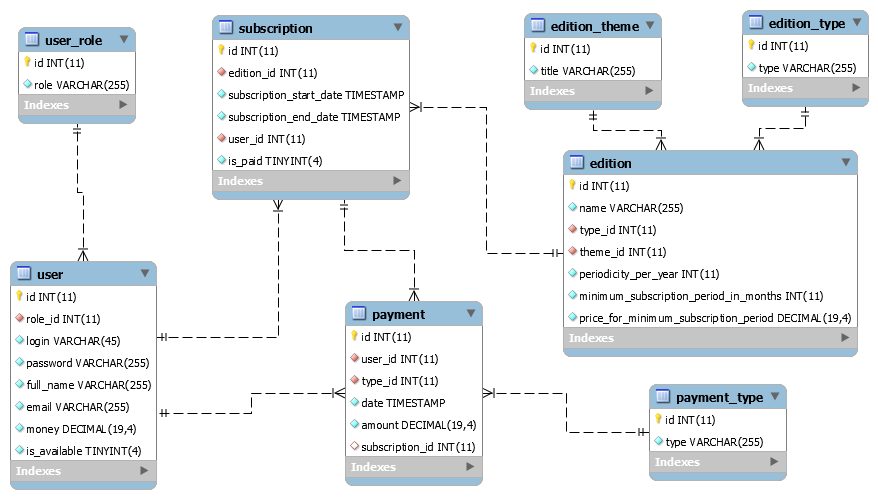
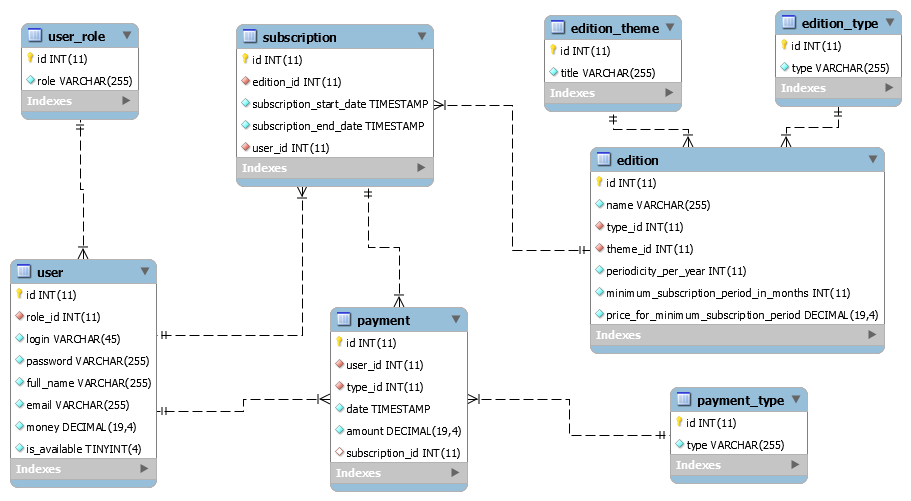
Remove isPaid field from Subscription entity

diff --git a/src/main/java/by/kiselevich/periodicals/entity/Subscription.java b/src/main/java/by/kiselevich/periodicals/entity/Subscription.java
@@ -13,19 +13,17 @@ public class Subscription implements Serializable {
     private Timestamp subscriptionStartDate;
     private Timestamp subscriptionEndDate;
     private User user;
-    private boolean paid;
 
     public Subscription() {
 
     }
 
-    public Subscription(int id, Edition edition, Timestamp subscriptionStartDate, Timestamp subscriptionEndDate, User user, boolean paid) {
+    public Subscription(int id, Edition edition, Timestamp subscriptionStartDate, Timestamp subscriptionEndDate, User user) {
         this.id = id;
         this.edition = edition;
         this.subscriptionStartDate = subscriptionStartDate;
         this.subscriptionEndDate = subscriptionEndDate;
         this.user = user;
-        this.paid = paid;
     }
 
     public static class SubscriptionBuilder {
@@ -34,7 +32,6 @@ public class Subscription implements Serializable {
         private Timestamp subscriptionStartDate;
         private Timestamp subscriptionEndDate;
         private User user;
-        private boolean paid;
 
         public SubscriptionBuilder id(int id) {
             this.id = id;
@@ -61,13 +58,8 @@ public class Subscription implements Serializable {
             return this;
         }
 
-        public SubscriptionBuilder paid(boolean paid) {
-            this.paid = paid;
-            return this;
-        }
-
         public Subscription build() {
-            return new Subscription(id, edition, subscriptionStartDate, subscriptionEndDate, user, paid);
+            return new Subscription(id, edition, subscriptionStartDate, subscriptionEndDate, user);
         }
     }
 
@@ -111,14 +103,6 @@ public class Subscription implements Serializable {
         this.user = user;
     }
 
-    public boolean isPaid() {
-        return paid;
-    }
-
-    public void setPaid(boolean paid) {
-        this.paid = paid;
-    }
-
     @Override
     public boolean equals(Object o) {
         if (this == o) return true;
@@ -127,7 +111,6 @@ public class Subscription implements Serializable {
         Subscription that = (Subscription) o;
 
         if (id != that.id) return false;
-        if (paid != that.paid) return false;
         if (!Objects.equals(edition, that.edition)) return false;
         if (!Objects.equals(subscriptionStartDate, that.subscriptionStartDate))
             return false;
@@ -143,7 +126,6 @@ public class Subscription implements Serializable {
         result = 31 * result + (subscriptionStartDate != null ? subscriptionStartDate.hashCode() : 0);
         result = 31 * result + (subscriptionEndDate != null ? subscriptionEndDate.hashCode() : 0);
         result = 31 * result + (user != null ? user.hashCode() : 0);
-        result = 31 * result + (paid ? 1 : 0);
         return result;
     }
 
@@ -155,7 +137,6 @@ public class Subscription implements Serializable {
                 ", subscriptionStartDate=" + subscriptionStartDate +
                 ", subscriptionEndDate=" + subscriptionEndDate +
                 ", user=" + user +
-                ", isPaid=" + paid +
                 '}';
     }
 }

diff --git a/src/main/java/by/kiselevich/periodicals/repository/subscription/SubscriptionRepositoryImpl.java b/src/main/java/by/kiselevich/periodicals/repository/subscription/SubscriptionRepositoryImpl.java
@@ -10,7 +10,7 @@ import java.util.List;
 
 public class SubscriptionRepositoryImpl implements SubscriptionRepository {
 
-    private static final String ADD_SUBSCRIPTION = "insert into subscription(edition_id, subscription_start_date, subscription_end_date, user_id, is_paid) values (?, ?, ?, ?, ?)";
+    private static final String ADD_SUBSCRIPTION = "insert into subscription(edition_id, subscription_start_date, subscription_end_date, user_id) values (?, ?, ?, ?)";
 
     private static final String SUBSCRIPTION_NOT_ADDED_MESSAGE = "Subscription has not been added";
 
@@ -29,7 +29,6 @@ public class SubscriptionRepositoryImpl implements SubscriptionRepository {
             statement.setTimestamp(2, subscription.getSubscriptionStartDate());
             statement.setTimestamp(3, subscription.getSubscriptionEndDate());
             statement.setInt(4, subscription.getUser().getId());
-            statement.setBoolean(5, subscription.isPaid());
             int updatedRowCount = statement.executeUpdate();
             boolean isSubscriptionAdded = false;
             if (updatedRowCount == 1) {

diff --git a/src/main/java/by/kiselevich/periodicals/specification/SpecificationUtil.java b/src/main/java/by/kiselevich/periodicals/specification/SpecificationUtil.java
@@ -29,8 +29,6 @@ public class SpecificationUtil {
     private static final String SUBSCRIPTION_ID = "subscription.id";
     private static final String SUBSCRIPTION_START_DATE = "subscription.subscription_start_date";
     private static final String SUBSCRIPTION_END_DATE = "subscription.subscription_end_date";
-    private static final String SUBSCRIPTION_IS_PAID = "subscription.is_paid";
-
 
     private static final String USER_ID = "user.id";
     private static final String USER_LOGIN = "user.login";
@@ -93,7 +91,6 @@ public class SpecificationUtil {
                 .subscriptionStartDate(resultSet.getTimestamp(SUBSCRIPTION_START_DATE))
                 .subscriptionEndDate(resultSet.getTimestamp(SUBSCRIPTION_END_DATE))
                 .user(getUserFromResultSet(resultSet))
-                .paid(resultSet.getBoolean(SUBSCRIPTION_IS_PAID))
                 .build();
     }
 
@@ -116,6 +113,4 @@ public class SpecificationUtil {
                 .role(resultSet.getString(USER_ROLE_ROLE))
                 .build();
     }
-
-
 }

diff --git a/src/main/java/by/kiselevich/periodicals/command/user/AddSubscription.java b/src/main/java/by/kiselevich/periodicals/command/user/AddSubscription.java
@@ -77,7 +77,6 @@ public class AddSubscription implements Command {
                     .subscriptionStartDate(start)
                     .subscriptionEndDate(end)
                     .user(user)
-                    .paid(true) //todo remove this field from database
                     .build();
             subscriptionService.addSubscription(subscription);
             return CommandProvider.getInstance().getCommand(CommandName.SHOW_USER_SUBSCRIPTIONS).execute(req,resp);
